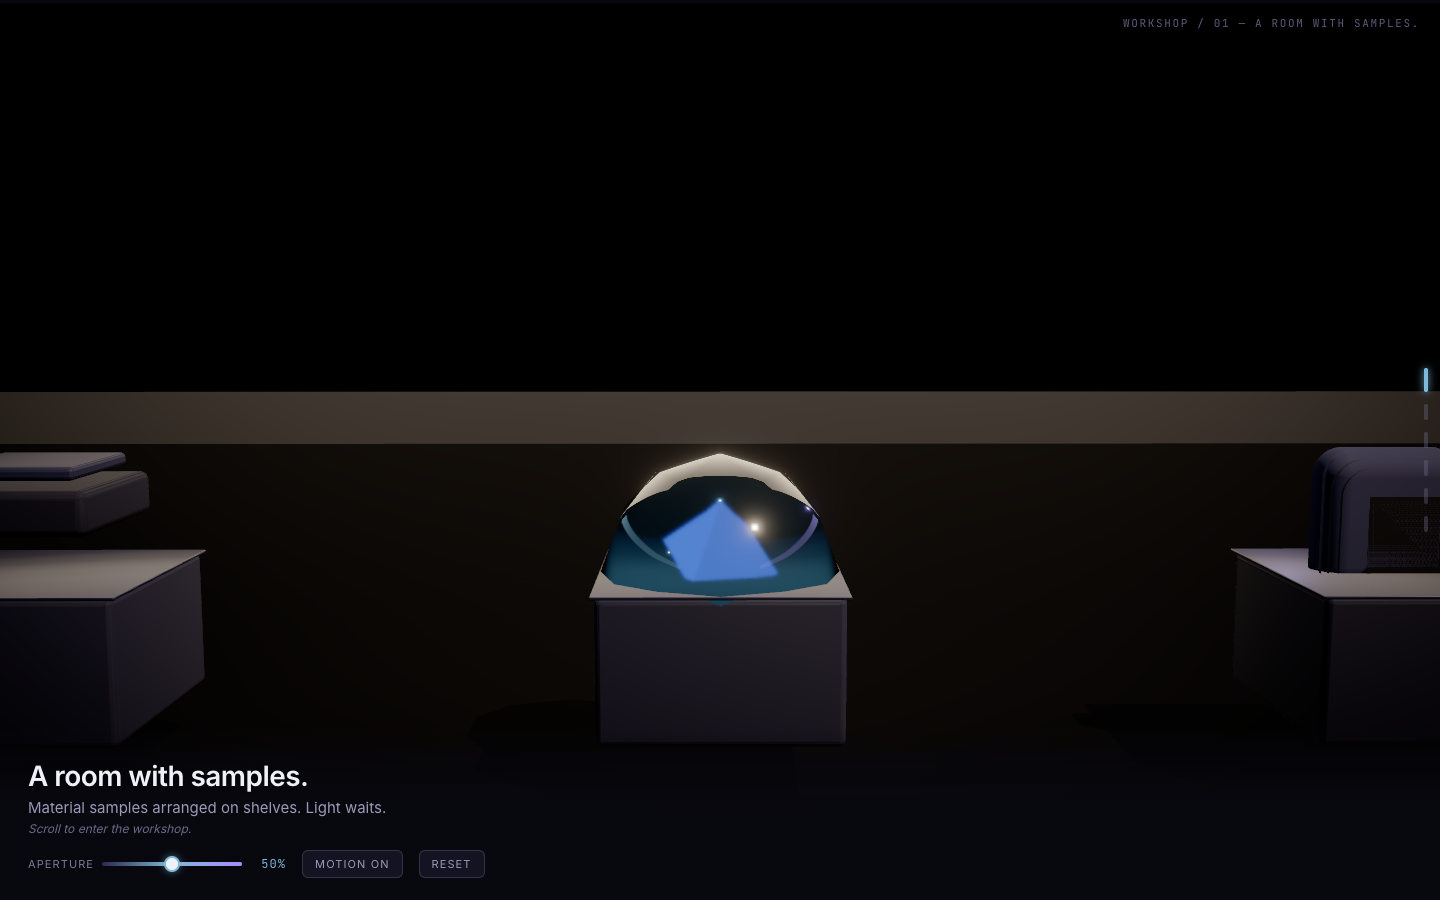
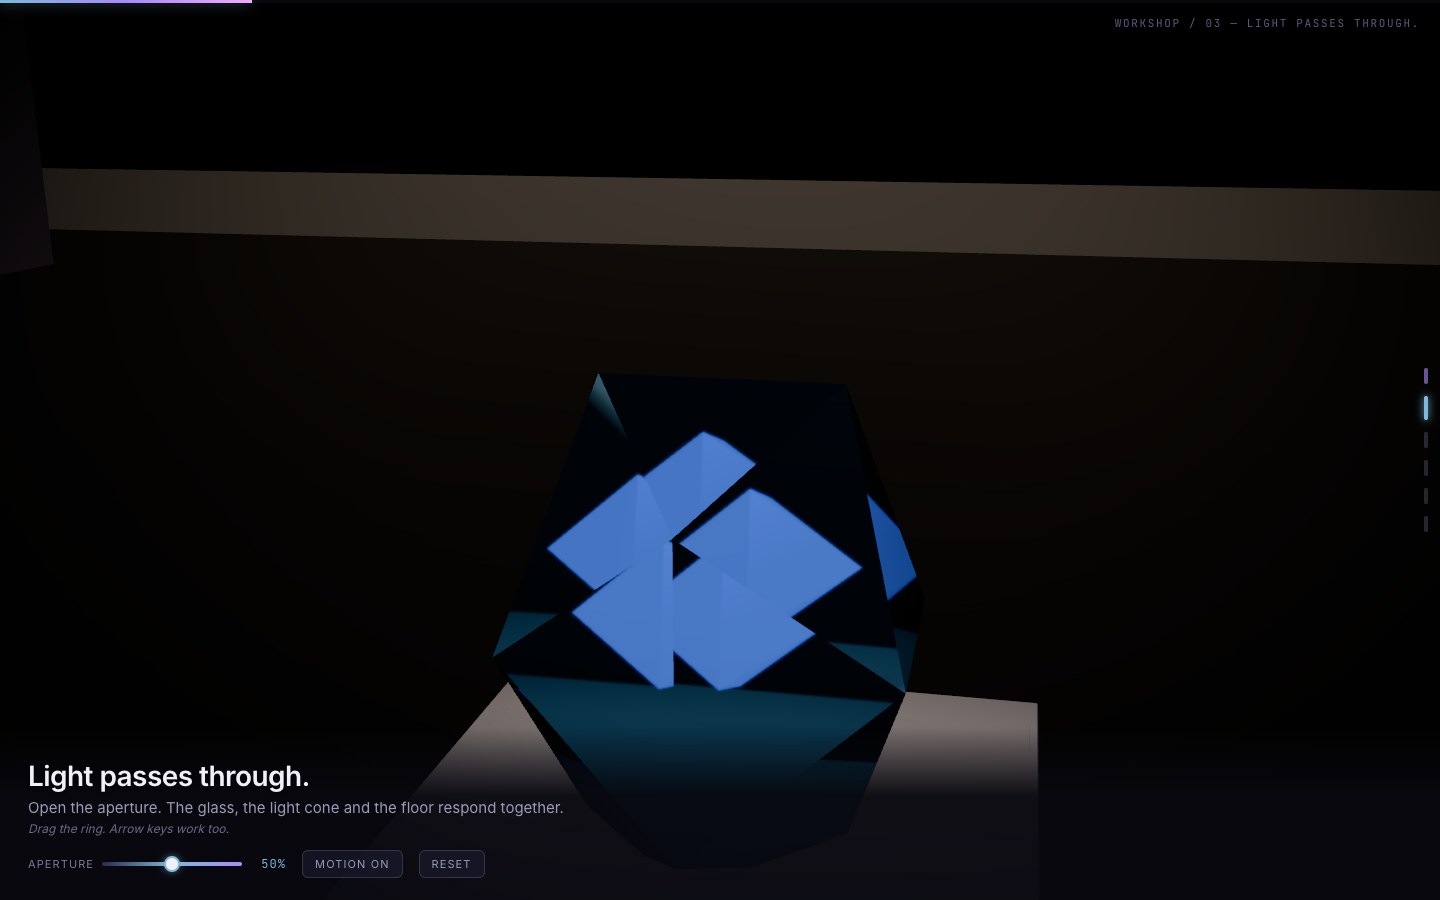
fix(workshop): restore scroll-driven beats, seat samples on pedestals, capture beats at canonical presets
- styles.css: overflow-x hidden -> clip; hidden made body a scroll container so
  ScrollTrigger never advanced and beats 2-6 rendered identical to beat 1
- Scene.jsx: seat keycap and neumorphism samples on their pedestals (staging
  offsets floated them above the pedestal tops)
- App.jsx: shadows={{ type: THREE.PCFShadowMap }} silences the PCFSoft removal warning
- verify-render.mjs: poll HUD title stabilization before capture (SwiftShader
  scrub lag), capture at each beat's start where CameraRig sits at the preset
- verify/: regenerate all 6 beat screenshots, now visually distinct per beat

Verified: vite build clean, zero console errors, HUD title matches expected
beat for all 6 captures.

tx-agent: jcode
tx-validated: build

diff --git a/creative-production/scene-experiences/specimen/workshop/src/Scene.jsx b/creative-production/scene-experiences/specimen/workshop/src/Scene.jsx
@@ -465,13 +465,13 @@ export default function Scene({ progress, aperture, beat, reducedMotion }) {
           <Pedestal position={[0, -0.35, 0]} />
           <Pedestal position={[2.05, -0.35, 0]} />
 
-          <group position={[-2.05, -0.08, 0]} onPointerDown={pick('keycap')}>
+          <group position={[-2.05, -0.27, 0]} onPointerDown={pick('keycap')}>
             <Keycap aperture={aperture} />
           </group>
           <group position={[0, -0.35, 0]} onPointerDown={pick('glass')}>
             <GlassSpecimen aperture={aperture} />
           </group>
-          <group position={[2.05, 0.09, 0]} onPointerDown={pick('neumorphism')}>
+          <group position={[2.05, -0.23, 0]} onPointerDown={pick('neumorphism')}>
             <NeumorphismBlock aperture={aperture} />
           </group>
         </>

diff --git a/creative-production/scene-experiences/specimen/workshop/src/App.jsx b/creative-production/scene-experiences/specimen/workshop/src/App.jsx
@@ -4,6 +4,7 @@ import Scene from './Scene'
 import HUD from './HUD'
 import { gsap } from 'gsap'
 import { ScrollTrigger } from 'gsap/ScrollTrigger'
+import * as THREE from 'three'
 
 gsap.registerPlugin(ScrollTrigger)
 
@@ -61,7 +62,7 @@ export default function App() {
       {/* 3D Canvas — fixed behind scroll */}
       <div className="canvas-wrap">
         <Canvas
-          shadows
+          shadows={{ type: THREE.PCFShadowMap }}
           dpr={[1, 2]}
           gl={{ antialias: true, alpha: false, powerPreference: 'high-performance' }}
           camera={{ fov: 35, near: 0.1, far: 100, position: [0, 1.2, 6] }}

diff --git a/creative-production/scene-experiences/specimen/workshop/src/styles.css b/creative-production/scene-experiences/specimen/workshop/src/styles.css
@@ -6,7 +6,7 @@ html, body {
   background: #08080f;
   color: #c8c8e0;
   font-family: 'Inter', system-ui, sans-serif;
-  overflow-x: hidden;
+  overflow-x: clip;
   -webkit-font-smoothing: antialiased;
 }
 #root { width: 100%; height: 100%; }
